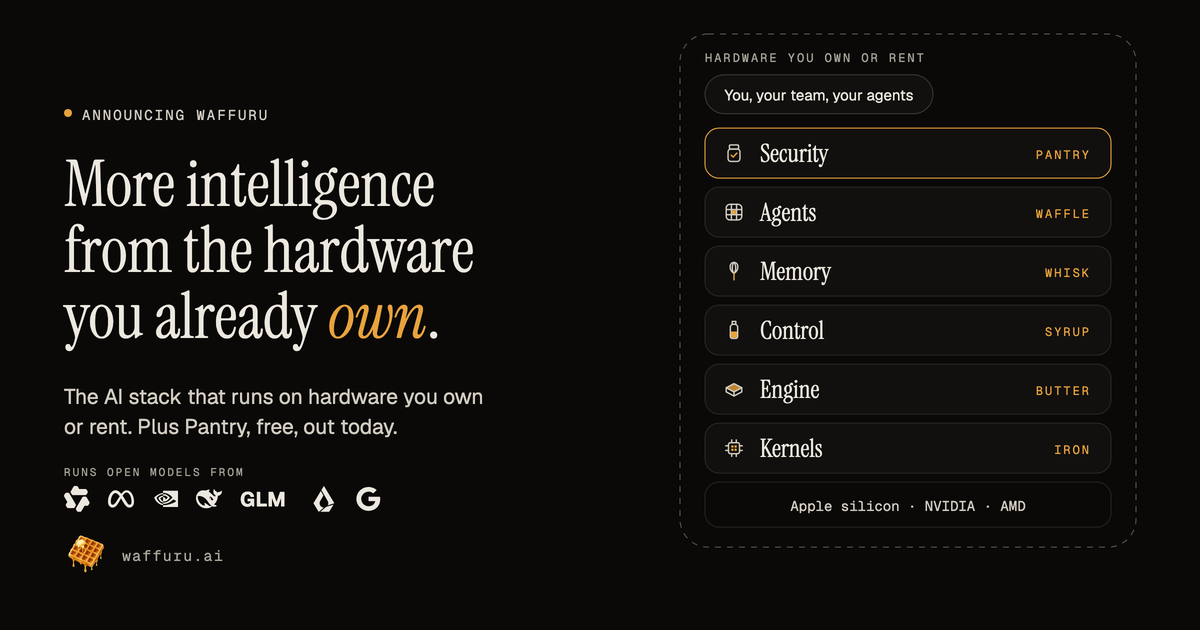
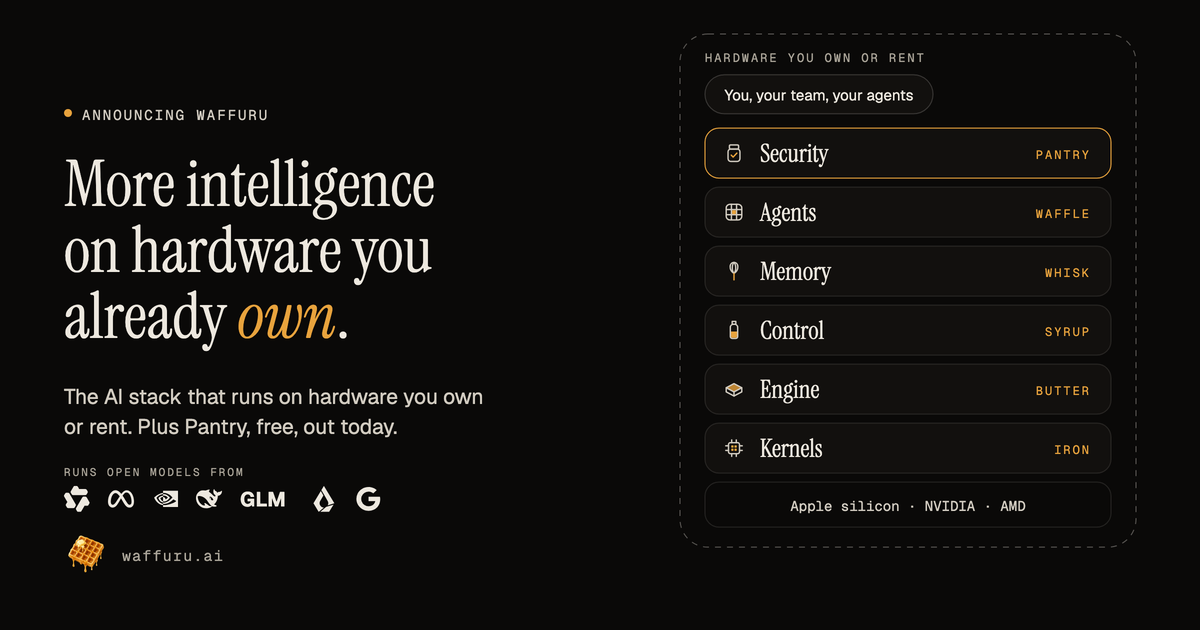
hero: more intelligence on hardware you already own, less space under the navbar, a gold Pantry pill; Butter's nav line without Python

Changed region(s): [[0.0308, 0.3619, 0.4008, 0.5429]]

diff --git a/src/components/home/hero.tsx b/src/components/home/hero.tsx
@@ -25,22 +25,22 @@ export function Hero({
   const { eyebrow, title, lede, launch, secondary } = content;
 
   return (
-    <section className="relative flex min-h-[min(900px,100svh)] flex-col justify-end pt-32 max-[720px]:min-h-0 max-[720px]:pt-28">
+    <section className="relative flex min-h-[min(860px,100svh)] flex-col justify-end pt-21 max-[720px]:min-h-0 max-[720px]:pt-19">
       <HeroTiles />
 
       <div className="relative z-[6] mx-auto flex w-full max-w-site flex-col gap-9 px-site pb-18 max-[720px]:gap-7 max-[720px]:pb-12">
         {isPublishedPath(pantryFacts.path) && (
           <LocalizedLink
             href={pantryFacts.path}
-            className="wf-rise group inline-flex w-fit max-w-full items-center gap-3 rounded-full border border-foreground/15 bg-background/60 py-1.5 pr-4 pl-1.5 text-[14px] text-soft backdrop-blur-sm transition-colors hover:border-foreground/40 hover:text-foreground"
+            className="wf-rise group inline-flex w-fit max-w-full items-center gap-3 rounded-full border border-brand/70 bg-brand/20 py-1.5 pr-4 pl-1.5 text-[14px] text-foreground backdrop-blur-sm transition-colors hover:border-brand hover:bg-brand/30"
           >
-            <span className="rounded-full bg-brand px-2.5 py-0.5 label-mono text-[11px] text-primary-foreground">
+            <span className="rounded-full bg-foreground px-2.5 py-0.5 label-mono text-[11px] text-background">
               {launch.label}
             </span>
             <span className="truncate">{launch.text}</span>
             <span
               aria-hidden
-              className="text-brand-ink transition-transform group-hover:translate-x-0.5"
+              className="transition-transform group-hover:translate-x-0.5"
             >
               →
             </span>

diff --git a/src/i18n/dictionaries/ja.ts b/src/i18n/dictionaries/ja.ts
@@ -16,7 +16,7 @@ const ja: Dictionary = {
     faqHeading: 'よくある質問',
   },
   meta: {
-    defaultTitle: 'Waffuru：今あるハードウェアから、もっと多くの知能を',
+    defaultTitle: 'Waffuru：今あるハードウェアで、もっと多くの知能を',
     defaultDescription:
       'Waffuru は、所有またはレンタルのハードウェアでモデルを速く、安く動かす AI スタックをつくっています。デフォルトでプライベート。まずは macOS と Linux 向けの無料脆弱性スキャナー Pantry から。',
   },
@@ -61,7 +61,7 @@ const ja: Dictionary = {
       },
       butter: {
         label: 'Butter',
-        description: 'Python 不要のマルチモーダル推論。',
+        description: '妥協のないマルチモーダル推論。',
       },
       syrup: {
         label: 'Syrup',

diff --git a/src/i18n/dictionaries/fr.ts b/src/i18n/dictionaries/fr.ts
@@ -16,7 +16,8 @@ const fr: Dictionary = {
     faqHeading: 'Vos questions, nos réponses',
   },
   meta: {
-    defaultTitle: 'Waffuru : plus d’intelligence du matériel que vous possédez',
+    defaultTitle:
+      'Waffuru : plus d’intelligence sur le matériel que vous possédez déjà',
     defaultDescription:
       'Waffuru construit la stack d’IA qui fait tourner les modèles vite et à moindre coût sur du matériel que vous possédez ou louez, privée par défaut. Commencez par Pantry, notre scanner de vulnérabilités gratuit pour macOS et Linux.',
   },
@@ -61,7 +62,7 @@ const fr: Dictionary = {
       },
       butter: {
         label: 'Butter',
-        description: 'Inférence multimodale, sans Python.',
+        description: 'Inférence multimodale, sans compromis.',
       },
       syrup: {
         label: 'Syrup',

diff --git a/src/i18n/dictionaries/es.ts b/src/i18n/dictionaries/es.ts
@@ -16,7 +16,7 @@ const es: Dictionary = {
     faqHeading: 'Preguntas frecuentes',
   },
   meta: {
-    defaultTitle: 'Waffuru: más inteligencia del hardware que ya tienes',
+    defaultTitle: 'Waffuru: más inteligencia en el hardware que ya tienes',
     defaultDescription:
       'Waffuru crea el stack de IA que ejecuta modelos rápido y a bajo costo en hardware propio o alquilado, privado por defecto. Empieza con Pantry, nuestro escáner de vulnerabilidades gratuito para macOS y Linux.',
   },
@@ -61,7 +61,7 @@ const es: Dictionary = {
       },
       butter: {
         label: 'Butter',
-        description: 'Inferencia multimodal, sin Python.',
+        description: 'Inferencia multimodal, sin concesiones.',
       },
       syrup: {
         label: 'Syrup',

diff --git a/src/content/pages/home.ja.ts b/src/content/pages/home.ja.ts
@@ -18,7 +18,7 @@ const homeJa: (typeof home)['en'] = {
 
   hero: {
     eyebrow: 'あなたのハードウェア · あなたのデータ · あなたの AI',
-    title: '*手元*のハードウェアから、もっとインテリジェンスを。',
+    title: '*手元*のハードウェアで、もっとインテリジェンスを。',
     lede: 'Waffuru は、ノート PC からデータセンターの GPU フリートまで、所有またはレンタルしているハードウェアで動く AI スタックをつくっています。すべての GPU からより多くを引き出し、トークンあたりの支出を抑えられて、データは手元にとどまります。',
     launch: {
       label: '新登場',

diff --git a/src/i18n/dictionaries/zh.ts b/src/i18n/dictionaries/zh.ts
@@ -16,7 +16,7 @@ const zh: Dictionary = {
     faqHeading: '常见问题',
   },
   meta: {
-    defaultTitle: 'Waffuru：让你已有的硬件发挥更多智能',
+    defaultTitle: 'Waffuru：在你已有的硬件上获得更多智能',
     defaultDescription:
       'Waffuru 打造 AI 技术栈，在你自有或租用的硬件上又快又省地运行模型，默认私密。从 Pantry 开始：适用于 macOS 和 Linux 的免费漏洞扫描器。',
   },
@@ -61,7 +61,7 @@ const zh: Dictionary = {
       },
       butter: {
         label: 'Butter',
-        description: '多模态推理，无需 Python。',
+        description: '多模态推理，绝不妥协。',
       },
       syrup: {
         label: 'Syrup',

diff --git a/src/i18n/dictionaries/en.ts b/src/i18n/dictionaries/en.ts
@@ -20,7 +20,7 @@ const en = {
     faqHeading: 'Questions, answered',
   },
   meta: {
-    defaultTitle: 'Waffuru: more intelligence from the hardware you own',
+    defaultTitle: 'Waffuru: more intelligence on hardware you already own',
     defaultDescription:
       'Waffuru builds the AI stack that runs models fast and cheap on hardware you own or rent, private by default. Start with Pantry, our free vulnerability scanner for macOS and Linux.',
   },
@@ -65,7 +65,7 @@ const en = {
       },
       butter: {
         label: 'Butter',
-        description: 'Multi-modal inference, without Python.',
+        description: 'Multi-modal inference, without compromise.',
       },
       syrup: {
         label: 'Syrup',

diff --git a/src/content/pages/home.fr.ts b/src/content/pages/home.fr.ts
@@ -18,7 +18,7 @@ const homeFr: (typeof home)['en'] = {
 
   hero: {
     eyebrow: 'Votre matériel · vos données · votre IA',
-    title: 'Plus d’intelligence, avec le matériel que vous *possédez* déjà.',
+    title: 'Plus d’intelligence sur le matériel que vous *possédez* déjà.',
     lede: 'Waffuru construit la stack d’IA qui tourne sur le matériel que vous possédez ou louez, du portable à la flotte de GPU en datacenter. Vous tirez davantage de chaque GPU, dépensez moins par token, et vos données restent chez vous.',
     launch: {
       label: 'Nouveau',

diff --git a/src/content/pages/home.ko.ts b/src/content/pages/home.ko.ts
@@ -18,7 +18,7 @@ const homeKo: (typeof home)['en'] = {
 
   hero: {
     eyebrow: '내 하드웨어 · 내 데이터 · 내 AI',
-    title: '이미 *가진* 하드웨어로 더 많은 지능을.',
+    title: '이미 *가진* 하드웨어에서 더 많은 지능을.',
     lede: 'Waffuru는 노트북부터 데이터센터의 GPU 플릿까지, 소유하거나 임대한 하드웨어에서 돌아가는 AI 스택을 만듭니다. 모든 GPU에서 더 많은 것을 얻고, 토큰당 비용은 줄이며, 데이터는 내 곁에 머뭅니다.',
     launch: {
       label: '신규',

diff --git a/src/content/pages/home.zh.ts b/src/content/pages/home.zh.ts
@@ -18,7 +18,7 @@ const homeZh: (typeof home)['en'] = {
 
   hero: {
     eyebrow: '你的硬件 · 你的数据 · 你的 AI',
-    title: '用你*已有*的硬件，获得更多智能。',
+    title: '在你*已有*的硬件上，获得更多智能。',
     lede: 'Waffuru 打造在你自有或租用的硬件上运行的 AI 技术栈，从一台笔记本到数据中心里的一整支 GPU 集群。你能从每块 GPU 中获得更多，每个 token 花得更少，数据也留在你手里。',
     launch: {
       label: '新品',

diff --git a/src/content/pages/home.es.ts b/src/content/pages/home.es.ts
@@ -18,7 +18,7 @@ const homeEs: (typeof home)['en'] = {
 
   hero: {
     eyebrow: 'Tu hardware · tus datos · tu IA',
-    title: 'Más inteligencia del hardware que ya *tienes*.',
+    title: 'Más inteligencia en el hardware que ya *tienes*.',
     lede: 'Waffuru construye el stack de IA que funciona en el hardware que tienes o alquilas, desde un portátil hasta una flota de GPU en el centro de datos. Sacas más de cada GPU, gastas menos por token y tus datos se quedan contigo.',
     launch: {
       label: 'Nuevo',

diff --git a/src/content/pages/home.ts b/src/content/pages/home.ts
@@ -86,7 +86,7 @@ export const home: Localized<HomeContent> = {
 
     hero: {
       eyebrow: 'Your hardware · your data · your AI',
-      title: 'More intelligence from the hardware you already *own*.',
+      title: 'More intelligence on hardware you already *own*.',
       lede: 'Waffuru builds the AI stack that runs on hardware you own or rent, from a laptop to a GPU fleet in the data centre. You get more from every GPU, spend less per token, and your data stays with you.',
       launch: {
         label: 'New',
